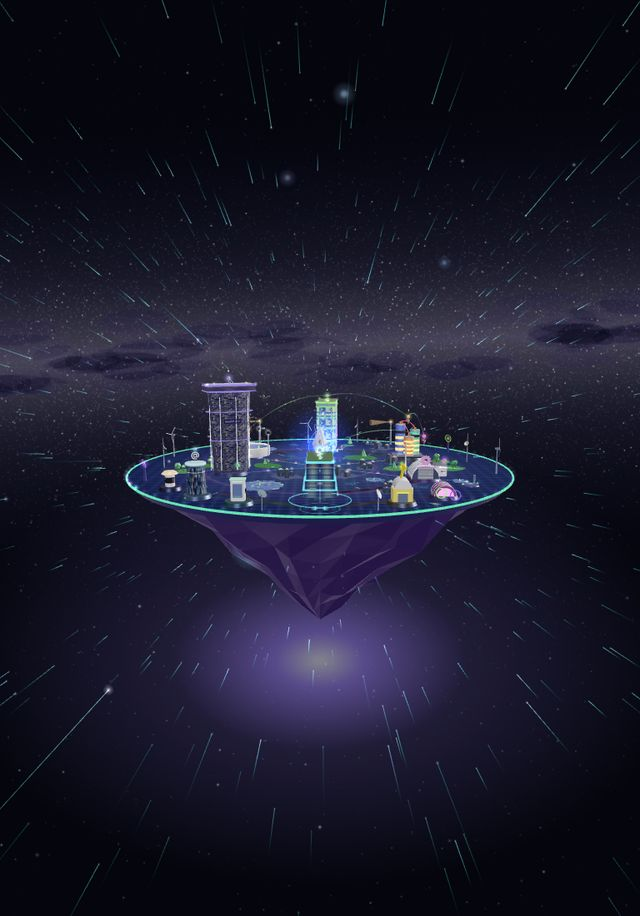
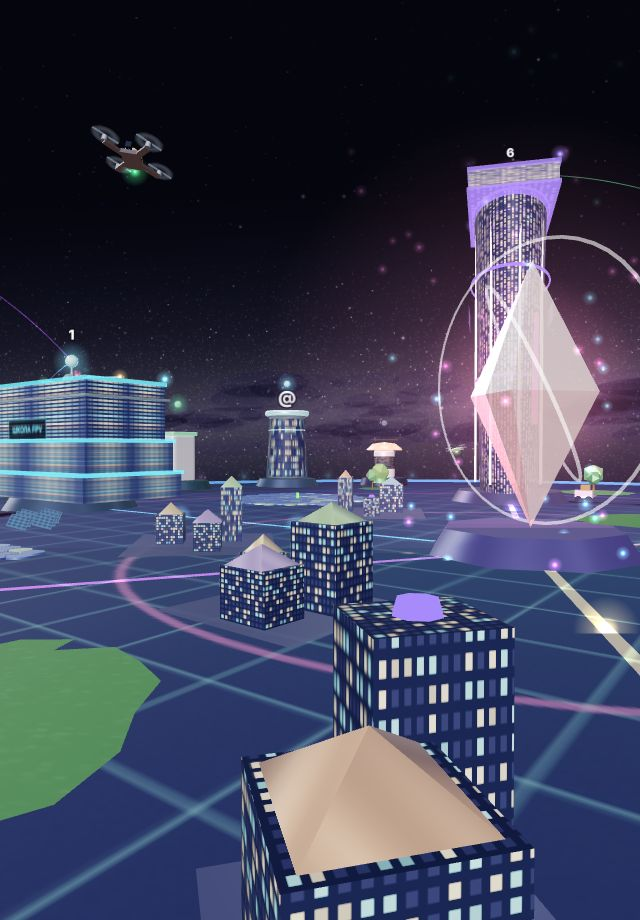
Модуль 3: за дверью улица летающего города изнутри (вид от модуля 3 на другие модули)
Claude-Session: https://claude.ai/code/session_016E3naaUwh54qrjSfZmxNzp

diff --git a/proba/modul3/akb-etazh.js b/proba/modul3/akb-etazh.js
@@ -262,7 +262,7 @@ function drawPlan() { var c = planTex.userData.x, w = 1024, h = 640, kx = (w - 8
   var p = R.camera.position; c.fillStyle = '#ff5d6c'; c.beginPath(); c.arc(ox + p.x * kx, oz + p.z * kz, 10, 0, 7); c.fill();
   planTex.needsUpdate = true; }
 var planAcc = 0; R.frame(function (dt) { planAcc += dt; if (planAcc > .5 && (curReg === 'L')) { planAcc = 0; drawPlan(); } });
-/* выход в город: металлическая рама Kenney-стиля, сдвижная створка, за ней виден летающий город (снимок из курса) */
+/* выход в город: металлическая рама Kenney-стиля, сдвижная створка, за ней улица летающего города: вид от здания модуля 3 на другие модули (снимок из курса) */
 var door = grp(LX / 2, 0, D - .13, Math.PI), EDW = 1.6, EDH = 2.35, frM = std('#4a5160', .35, .75);
 var outT = TL.load('tekstury/gorod-vid.jpg', function () { R.frame(function () {}); }); outT.encoding = T.sRGBEncoding;
 var outM = new T.Mesh(new T.PlaneGeometry(EDW, EDH), new T.MeshBasicMaterial({ map: outT, toneMapped: false })); outM.position.set(0, EDH / 2, -.01); door.add(outM);
